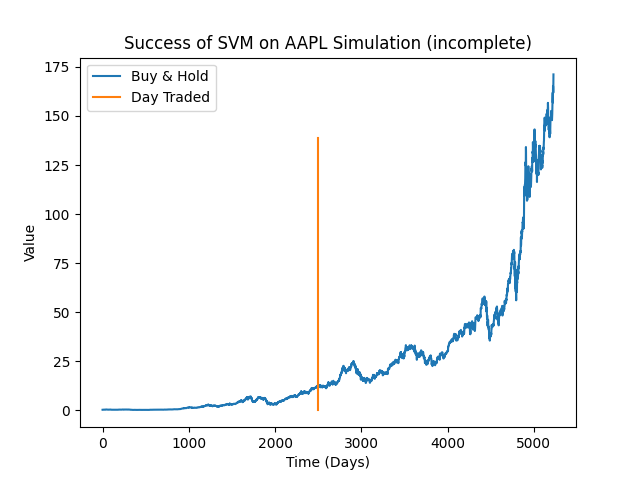
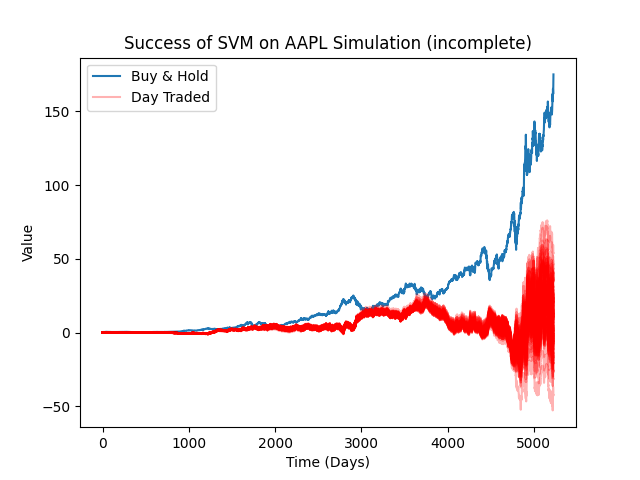
svm simulation

diff --git a/svm.py b/svm.py
@@ -8,54 +8,61 @@ from tqdm import tqdm
 import data
 
 
-def simulation(ticker):
+def simulation(df):
     """simulate day trading and compare to a buy and hold strategy"""
 
     model = svm.SVC(kernel="poly")
-    df = data.preprocess(ticker)
-    X_train, X_test, y_train, y_test = data.split(df)
+
+    normalized_df=(df-df.mean())/df.std()
+
+    normalized_df["Signal"] = df["Signal"]
+    normalized_df = normalized_df.drop(["High", "Low", "Close", "Adj Close", "Returns"], axis=1, inplace=False)
+
+    train, test = train_test_split(normalized_df, test_size=0.2)
+
+    X_train = np.array(train[train.columns[:-2]])
+    y_train = np.array(train[train.columns[-1]])
+
+    X_test = np.array(test[test.columns[:-2]])
+    y_test = np.array(test[test.columns[-1]])
 
     model.fit(X_train, y_train)
 
-    # X = np.concatenate((X_train, X_test))
-    X = np.array(df.drop(["Signal", "Returns"], axis=1))
+    y_pred = list(model.predict(np.array(normalized_df[normalized_df.columns[:-2]])))
+    y_pred = [1 if i==1 else -1 for i in y_pred]
+    gain_value = list(df['Gain Value'])
 
-    put_or_call = list(model.predict(df[df.columns[:-2]]))
-    put_or_call = model.predict(X)
 
-    print(list(put_or_call))
-    quit()
-
-    """
-    something needs to be fixed here
-
-    because of the shuffling effect of splitting the training and test set,
-    how do you determine which predicted values should be associated with
-    which prices/returns?
-    
-    """
-
-    gains = [val * action for val, action in zip(diff, put_or_call)]
+    gains = [val * action for val, action in zip(gain_value, y_pred)]
     net = sum(gains)
 
-    return gains
+    cumulative_gains = []
+    total = 0
+    for item in gains:
+        total += item
+        cumulative_gains += [total]
+
+    return cumulative_gains
 
 
-def plot_simulation(ticker):
+def plot_simulation(ticker, n=100):
 
     figure: Figure = plt.figure()
 
     df = data.preprocess(ticker)
     value = list(df["Close Shifted"])
 
-    """
-    plot the net gain of the svm simulation
-    """
-    # gains = simulation(ticker)
-    # plt.plot([i for i in range(len(value))], gains, label='Day Traded')
 
     plt.plot([i for i in range(len(value))], value, label="Buy & Hold")
-    plt.plot([2500 for i in range((140))], [i for i in range((140))], label="Day Traded")
+
+
+    gains = simulation(df)
+    plt.plot([i for i in range(len(gains))], gains, 'r', alpha=0.3, label='Day Traded')
+
+    for i in tqdm(range(n)):
+        gains = simulation(df)
+        plt.plot([i for i in range(len(gains))], gains, 'r', alpha=0.3)
+
 
     plt.ylabel(ylabel="Value")
     plt.xlabel(xlabel="Time (Days)")

diff --git a/data.py b/data.py
@@ -34,11 +34,21 @@ def preprocess(ticker):
     )
     df["Momentum"] = ta.MOM(df["Close Shifted"], timeperiod=12)
 
+    df["Gain Value"] = df["Open"] - df["Close"]
+    ' needs a better name or implementation? used in simulation'
+
     df["Returns"] = np.log(df["Open"] / df["Open"].shift(1))
     df["Signal"] = df["Returns"].apply(lambda x: 1 if x >= 0 else 0)
     df = df[40:]
 
     return df
+
+    """
+        df["Returns"] = df["Open"] / df["Open"].shift(1)
+        or
+        df["Returns"] = df["Open"] / df["Close"]
+        should stocks close out at the end of the day?
+    """
 
 
 def split(df, ratio=0.30):
@@ -46,6 +56,8 @@ def split(df, ratio=0.30):
 
     ## splitting the dataset
     max_abs_scaler = preprocessing.MaxAbsScaler()
+
+    df = df.drop(["High", "Low", "Close", "Adj Close", "Gain Value"], axis=1, inplace=False)
 
     X = np.array(df.drop(["Signal", "Returns"], axis=1))
     X = max_abs_scaler.fit_transform(X)
@@ -66,6 +78,7 @@ def main():
     df.to_csv(f"./datasets/csv_{ticker}.csv")
 
     # X_train, X_test, y_train, y_test = split(df)
+
 
 if __name__ == "__main__":
     main()
